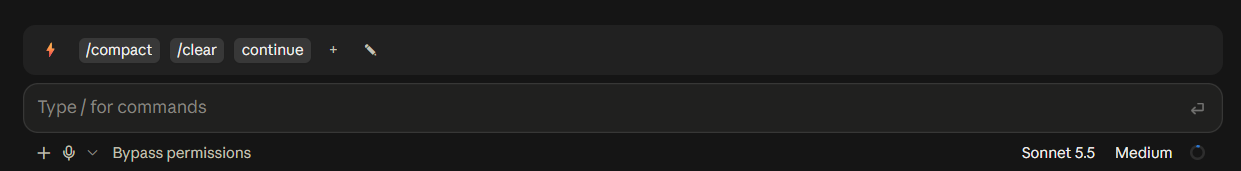
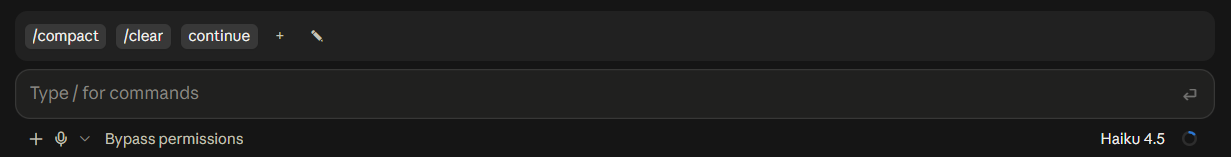
docs(readme): drop the fold toggle from the usage notes
The bar no longer folds, so the README stops describing the bolt,
points at Done as the way out of edit mode, and shows the bar as it
is now drawn.

diff --git a/README.md b/README.md
@@ -40,12 +40,11 @@ Then open a new session in the Code tab. The bar shows above the prompt box.
 
 ## Use
 
-- **⚡** folds the phrase buttons out and back in.
 - **Click a phrase** to type it into the session. A slash command runs as if typed; plain words are sent. Whatever you had half-typed in the prompt box stays there.
 - **`+`** adds a phrase: the text to type (anything you would type yourself, e.g. `continue` or `/compact keep the plan`), an optional label for the button, and what a click does: **Send right away**, or **Put in the box only**, which puts the phrase in the prompt box ahead of your draft for you to finish and send.
 
   ![The pane for adding a phrase](assets/pane-add.png)
-- **✎** turns on edit mode. There, clicking a phrase selects it instead of sending it, and four buttons act on the selection: **◀ ▶** move it, **✎** edits it, **✕** deletes it. **Done** or ⚡ leaves edit mode.
+- **✎** turns on edit mode. There, clicking a phrase selects it instead of sending it, and four buttons act on the selection: **◀ ▶** move it, **✎** edits it, **✕** deletes it. **Done** leaves edit mode.
 
 The first session starts with `/compact`, `/clear` and `continue`. Your phrases are kept in `%USERPROFILE%\.claude\plugins\store\` and are the same in every session and project.
 
